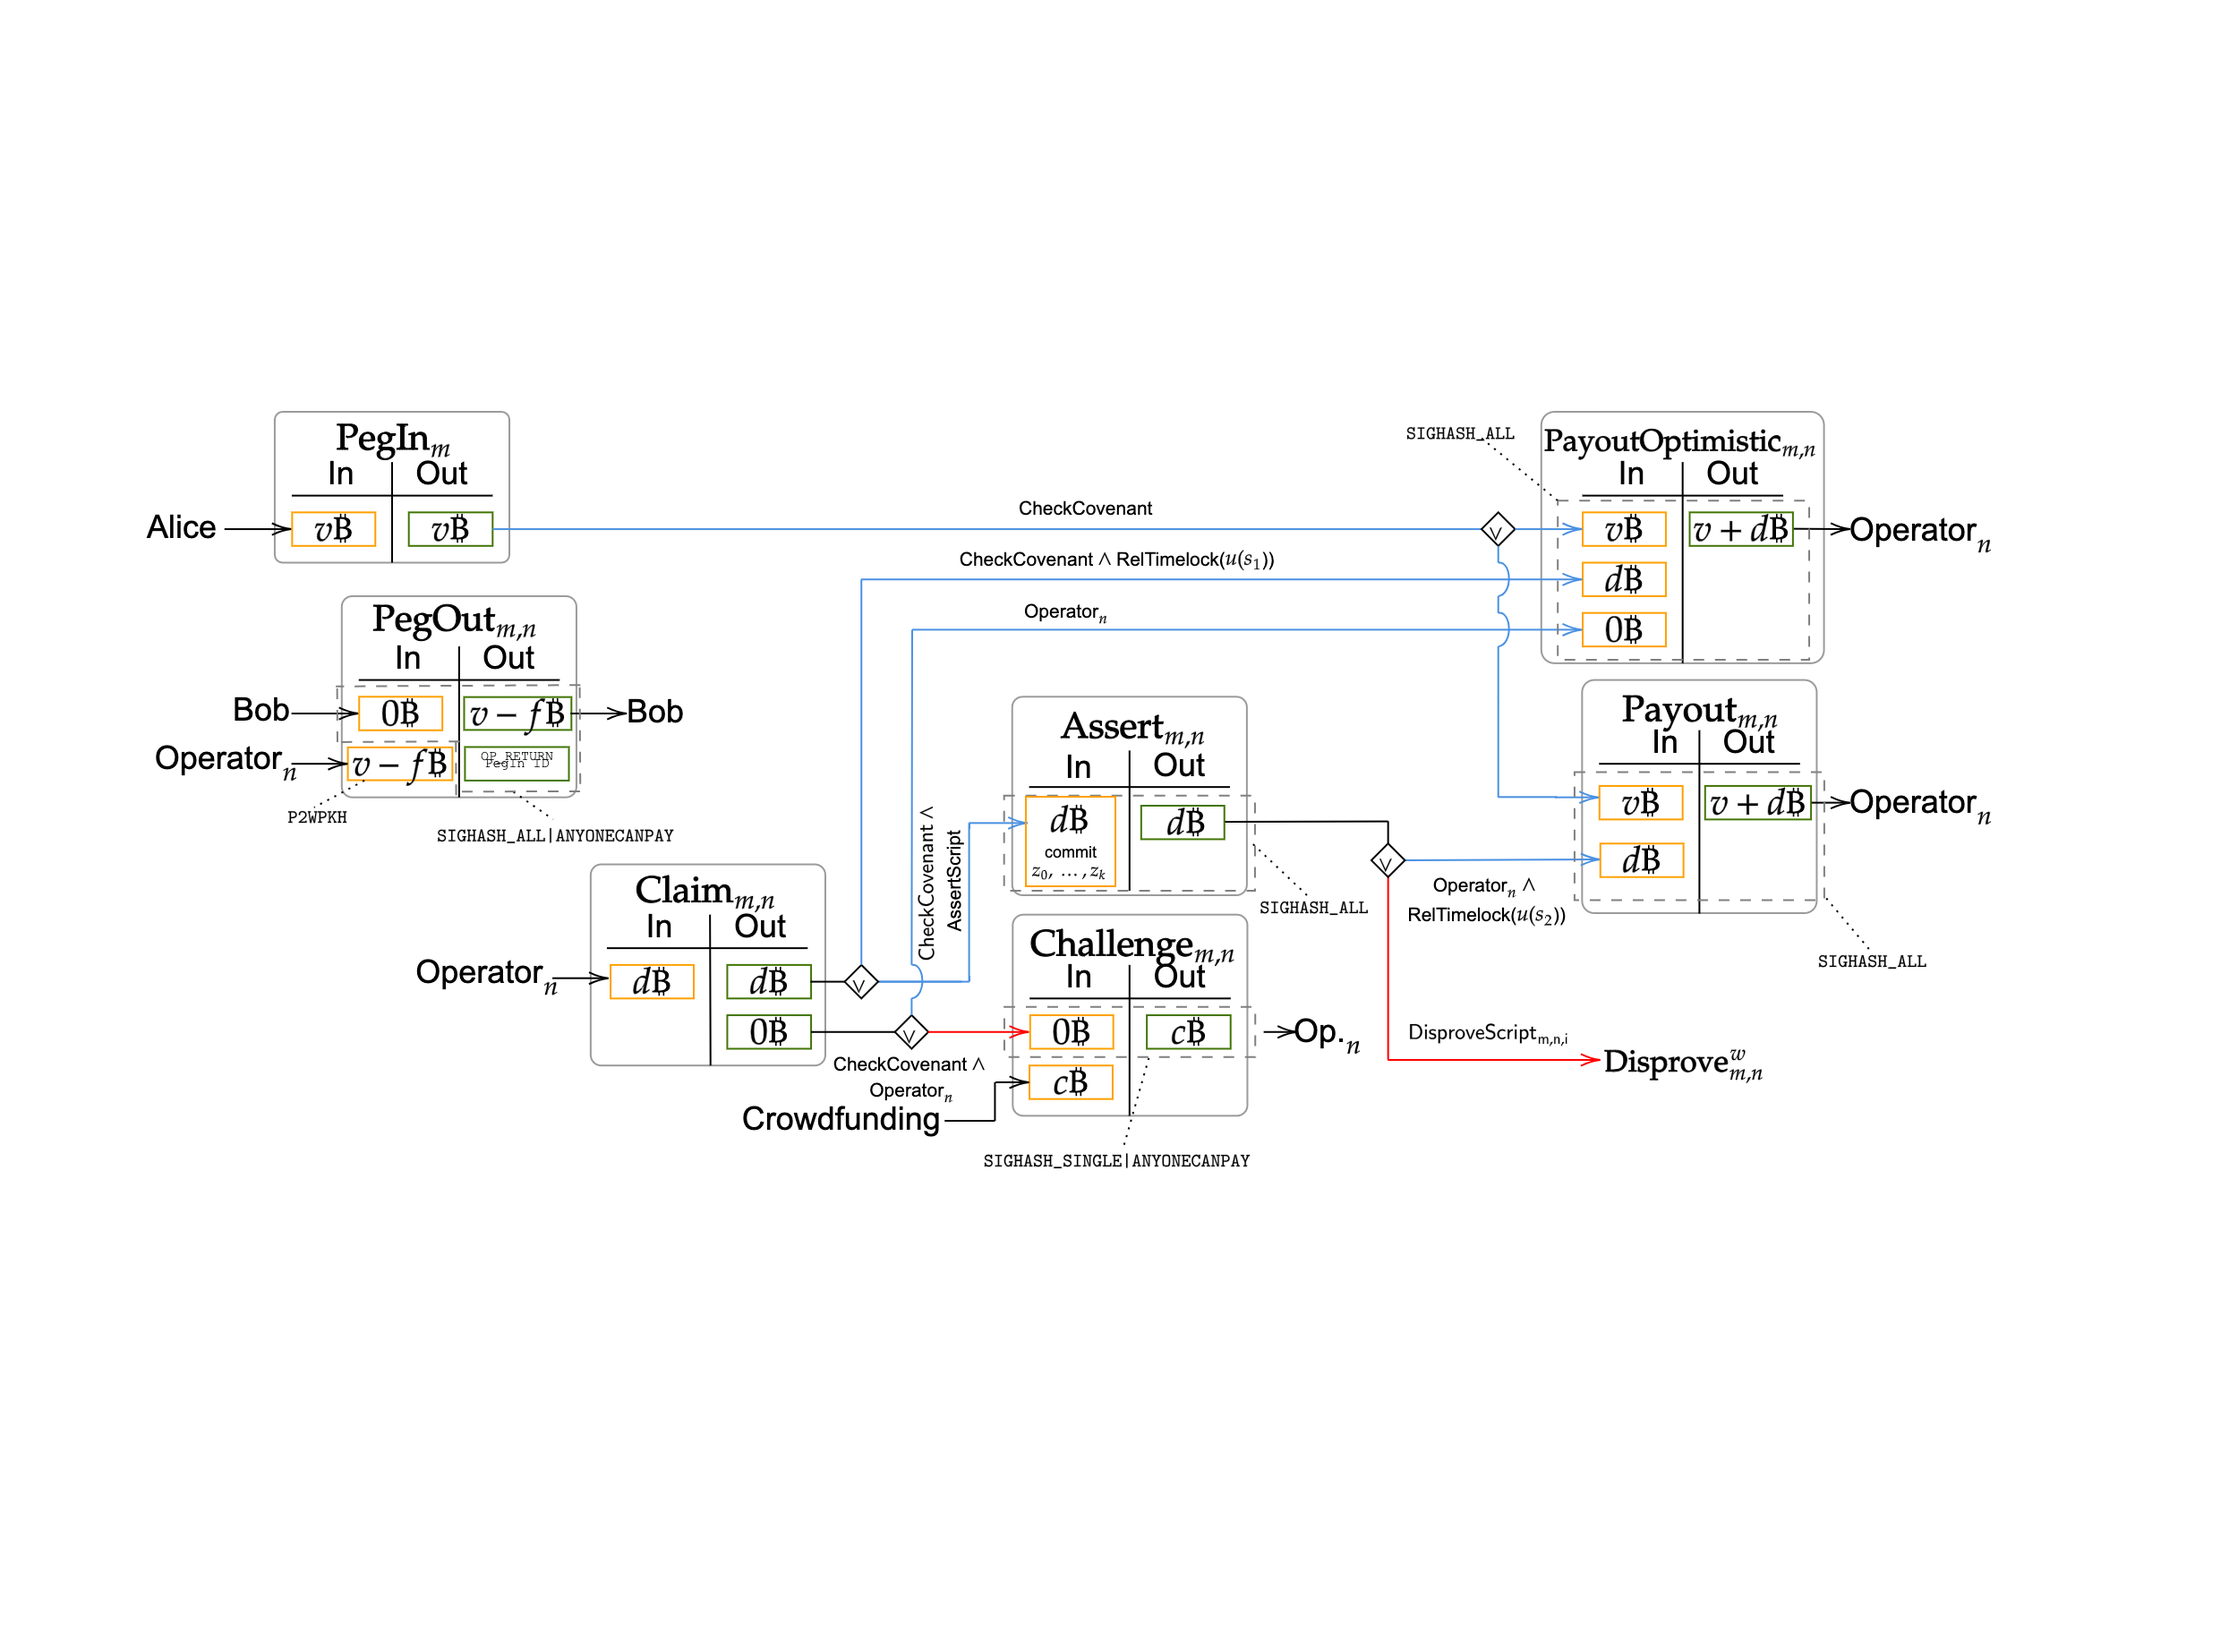
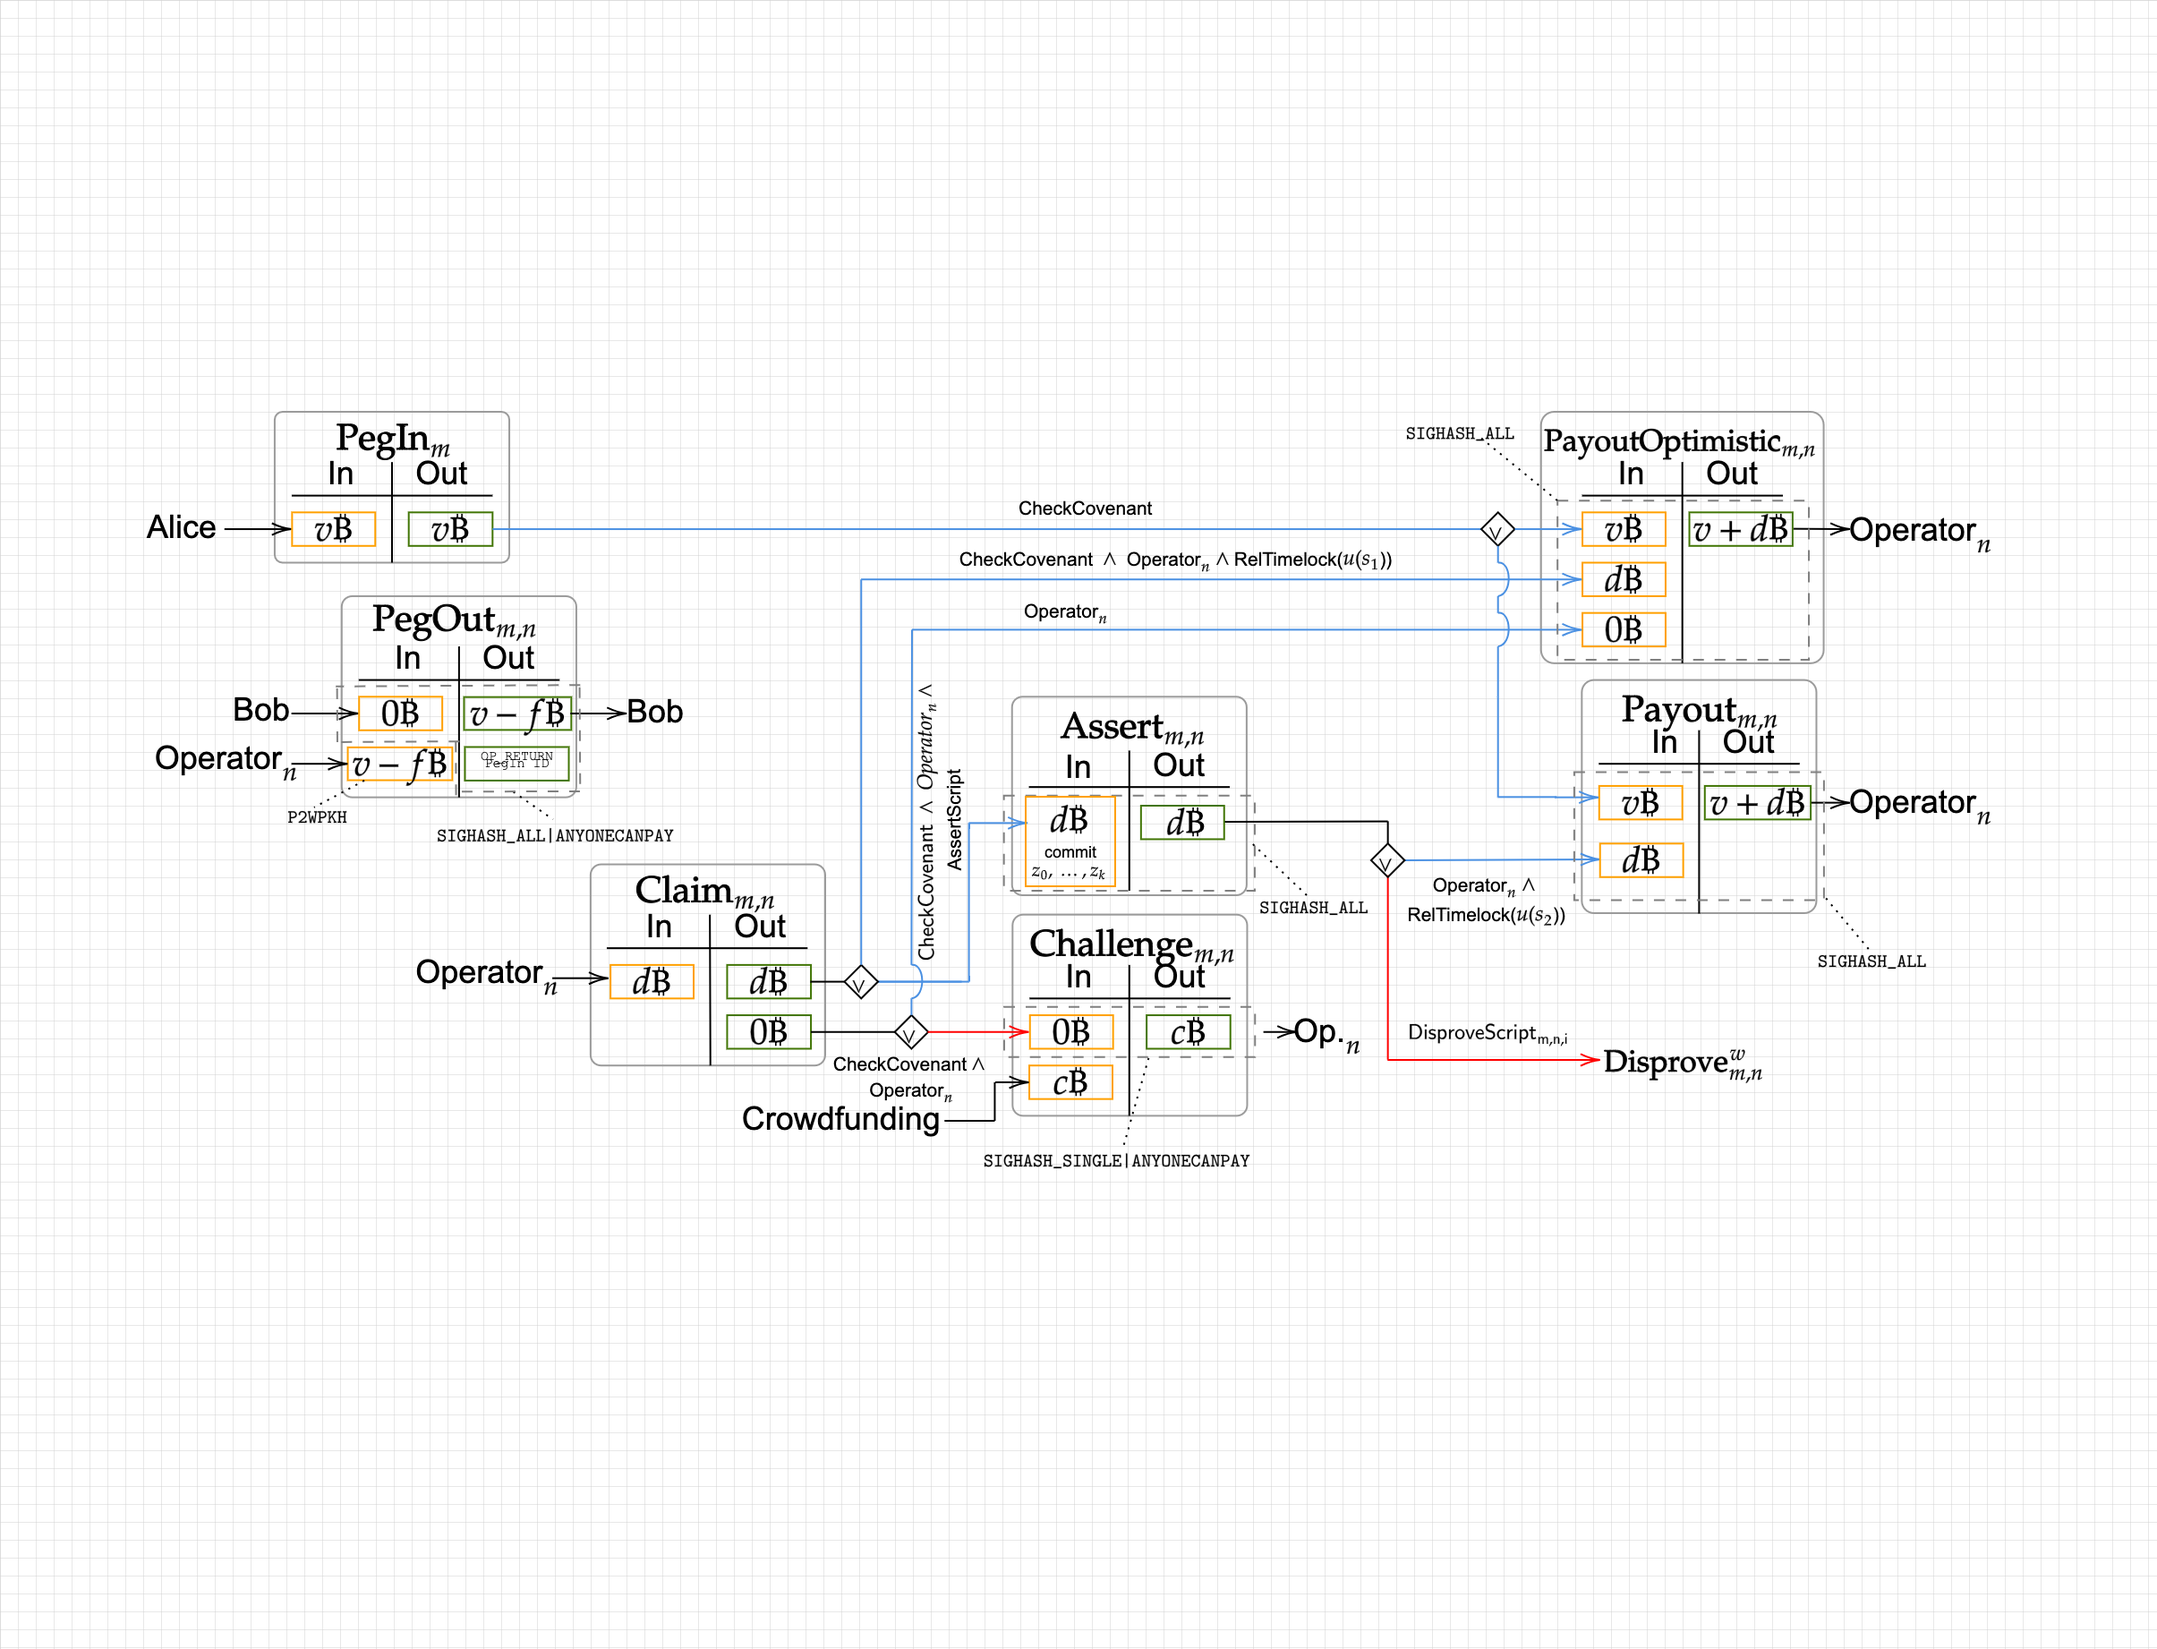
add operator signature

diff --git a/bitcoin/bitvm2/CovenantCommittee.md b/bitcoin/bitvm2/CovenantCommittee.md
@@ -49,12 +49,23 @@ How to protect the second UTXO (dust amount) in Claim with assumption of **1-out
 Note that: 
 - Both covenant committee and operator have the same signing message (preimage) which includes the `Operator` script and `CheckCovenant` script itself.
 - There is a mistake in above diagram. *Challenge* transaction must be prsigned by covenant committee, otherwise challenger can not contruct a transaction with operator's signature to spend this UTXO. 
-- In practice, the signature `HashType`s of covenant committee and operator are the same, different `HashType`s for one input will not be accepted by miner.
+- In practice, the signature `HashType`s of covenant committee and operator are the same, different `HashType`s for one input will not be accepted by miner. And the preimages of covenant and operator signatures are also the same, the preimage mostly contains `CheckCovenant` script, `CheckOperator` script and specified transaction content.
+
 
 In this case, there are three options:
 - ~~Any transaction signed and issued by operator hisself.~~ An rational operator has no reason to do this, since operator won't get the paid money `c` from challenger in unhappy case and happy case is also blocked.
 - One of covenant committee presigned *PayoutOptimistic* transaction for each operator.
 - One of covenant committee presigned *Challenge* transaction for each operator.
+
+There is problem here, why we need the operator's signature? Since covenant's signature already ensures challenger must use covenant presigned `Challenge` tx to spend the claim UTXO, and the output of `Challenge` tx goes to operator's wallet. All these are build on the trust of covenant committee.
+
+Let's me specific more the **trust**, I think it should contains two aspects:
+1. believe the transactions presigned by covenant are valid, every transaction pushed by operator are signed.
+2. believe at lest one of covenant committee member would abundant its `vk` after signing.
+
+For the satety of `PegIn` UTXO `2)` is enough. But for other UTXOs, such as `Claim`, `Assert`, `Challenge`, `2)` is not enough, user (operator) can not solely depends on the trust of covenant, adding operator himself signature is a good business decision after all. 
+
+In conclusion, we can say to operators: for the safety of `PegIn` money you have to trust covenant, but for the safety of `Claim` money you do not have to trust anyone.
 
 # Assert
 
